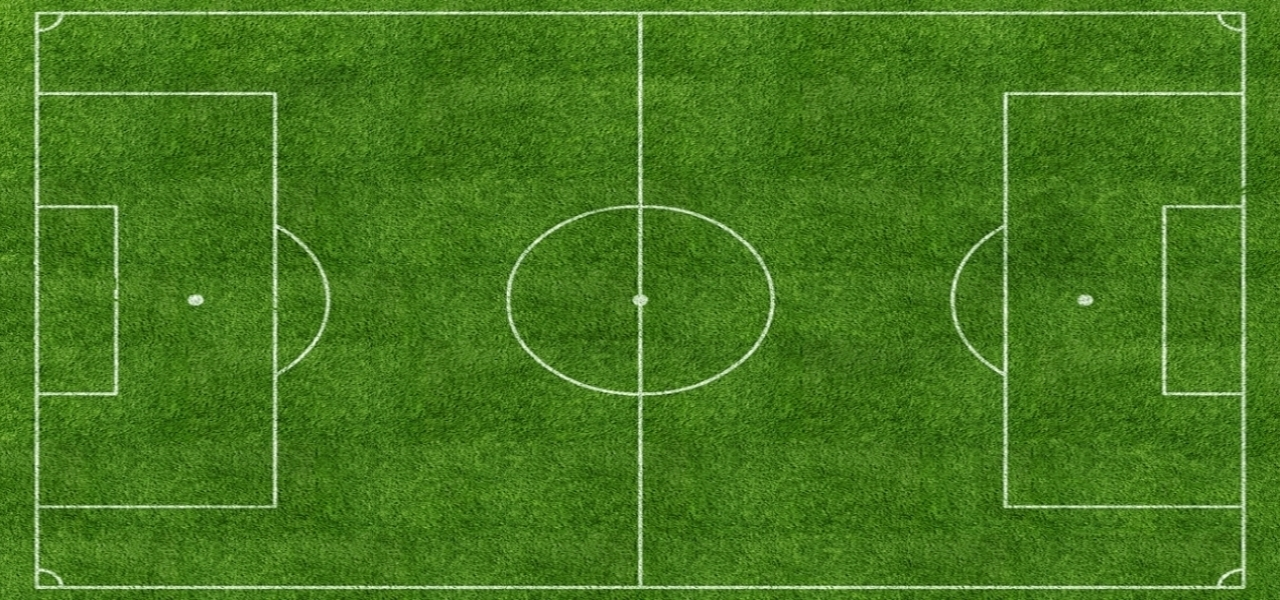
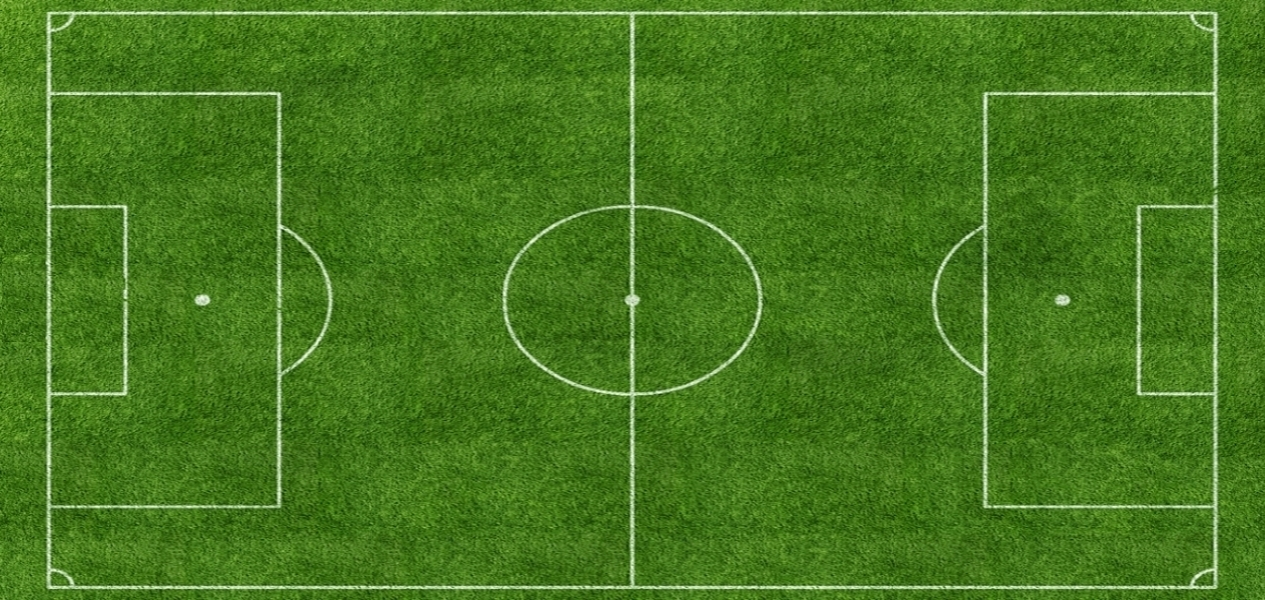
instructions state

Changed region(s): [[0.5241, 0.0, 1.0, 1.0], [0.0, 0.0, 0.4625, 1.0]]

diff --git a/public/js/leaderboard.js b/public/js/leaderboard.js
@@ -12,14 +12,14 @@ var leaderState = {
 
 	create: function() {
 
-		game.add.sprite(0, 0, 'futebol');
+		game.add.sprite(0, 0, 'futebol-clean');
 
 		//Leaderboard Page headers
-		var winLabel = game.add.text(380, 25, 'TOP 8 LEADERBOARD', {font: '44px Arial', fill: '#ffffff', fontWeight: 'bold'});
+		var winLabel = game.add.text(400, 25, 'TOP 8 LEADERBOARD', {font: '44px Arial', fill: '#ffffff', fontWeight: 'bold'});
 
-		game.add.text(460, 100, 'Player', {font: '36px Arial', fill: '#ffffff', fontWeight: 'bold'});
-		game.add.text(680, 100, 'Goals', {font: '36px Arial', fill: '#ffffff', fontWeight: 'bold'});
-		game.add.text(350, 120, '___________________________________', {fill: '#ffffff'});
+		game.add.text(490, 100, 'Player', {font: '36px Arial', fill: '#ffffff', fontWeight: 'bold'});
+		game.add.text(710, 100, 'Goals', {font: '36px Arial', fill: '#ffffff', fontWeight: 'bold'});
+		game.add.text(380, 120, '___________________________________', {fill: '#ffffff'});
 
 		// Call to get data from Database
 		$.get('/leaderboard', function(data) { 
@@ -33,47 +33,47 @@ var leaderState = {
 			
 		}
 		//======================RANKINGS - 1st PLACE=====================//
-		game.add.text(440, 160, '1 - ' + data[0].name, {font: '30px Arial', fill: '#ffffff', fontWeight: 'bold'});
-		game.add.text(420, 170, '_______________________', {fill: '#a1aab7'});
-		game.add.text(720, 160, data[0].score, {font: '30px Arial', fill: '#ffffff', fontWeight: 'bold'});
+		game.add.text(470, 160, '1 - ' + data[0].name, {font: '30px Arial', fill: '#ffffff', fontWeight: 'bold'});
+		game.add.text(450, 170, '_______________________', {fill: '#a1aab7'});
+		game.add.text(750, 160, data[0].score, {font: '30px Arial', fill: '#ffffff', fontWeight: 'bold'});
 
 		//======================2nd PLACE=====================//
-		game.add.text(440, 210, '2 - ' + data[1].name, {font: '30px Arial', fill: '#ffffff', fontWeight: 'bold'});
-		game.add.text(420, 220, '_______________________', {fill: '#a1aab7'});
-		game.add.text(720, 210, data[1].score, {font: '30px Arial', fill: '#ffffff', fontWeight: 'bold'});
+		game.add.text(470, 210, '2 - ' + data[1].name, {font: '30px Arial', fill: '#ffffff', fontWeight: 'bold'});
+		game.add.text(450, 220, '_______________________', {fill: '#a1aab7'});
+		game.add.text(750, 210, data[1].score, {font: '30px Arial', fill: '#ffffff', fontWeight: 'bold'});
 
 		//======================3rd PLACE=====================//
-		game.add.text(440, 260, '3 - ' + data[2].name, {font: '30px Arial', fill: '#ffffff', fontWeight: 'bold'});
-		game.add.text(420, 270, '_______________________', {fill: '#a1aab7'});
-		game.add.text(720, 260, data[2].score, {font: '30px Arial', fill: '#ffffff', fontWeight: 'bold'});
+		game.add.text(470, 260, '3 - ' + data[2].name, {font: '30px Arial', fill: '#ffffff', fontWeight: 'bold'});
+		game.add.text(450, 270, '_______________________', {fill: '#a1aab7'});
+		game.add.text(750, 260, data[2].score, {font: '30px Arial', fill: '#ffffff', fontWeight: 'bold'});
 
 		//======================4th PLACE=====================//
-		game.add.text(440, 310, '4 - ' + data[3].name, {font: '30px Arial', fill: '#ffffff', fontWeight: 'bold'});
-		game.add.text(420, 320, '_______________________', {fill: '#a1aab7'});
-		game.add.text(720, 310, data[3].score, {font: '30px Arial', fill: '#ffffff', fontWeight: 'bold'});
+		game.add.text(470, 310, '4 - ' + data[3].name, {font: '30px Arial', fill: '#ffffff', fontWeight: 'bold'});
+		game.add.text(450, 320, '_______________________', {fill: '#a1aab7'});
+		game.add.text(750, 310, data[3].score, {font: '30px Arial', fill: '#ffffff', fontWeight: 'bold'});
 
 		//======================5th PLACE=====================//
-		game.add.text(440, 360, '5 - ' + data[4].name, {font: '30px Arial', fill: '#ffffff', fontWeight: 'bold'});
-		game.add.text(420, 370, '_______________________', {fill: '#a1aab7'});
-		game.add.text(720, 360, data[4].score, {font: '30px Arial', fill: '#ffffff', fontWeight: 'bold'});
+		game.add.text(470, 360, '5 - ' + data[4].name, {font: '30px Arial', fill: '#ffffff', fontWeight: 'bold'});
+		game.add.text(450, 370, '_______________________', {fill: '#a1aab7'});
+		game.add.text(750, 360, data[4].score, {font: '30px Arial', fill: '#ffffff', fontWeight: 'bold'});
 		//======================6th PLACE=====================//
-		game.add.text(440, 410, '6 - ' + data[5].name, {font: '30px Arial', fill: '#ffffff', fontWeight: 'bold'});
-		game.add.text(420, 420, '_______________________', {fill: '#a1aab7'});
-		game.add.text(720, 410, data[5].score, {font: '30px Arial', fill: '#ffffff', fontWeight: 'bold'});
+		game.add.text(470, 410, '6 - ' + data[5].name, {font: '30px Arial', fill: '#ffffff', fontWeight: 'bold'});
+		game.add.text(450, 420, '_______________________', {fill: '#a1aab7'});
+		game.add.text(750, 410, data[5].score, {font: '30px Arial', fill: '#ffffff', fontWeight: 'bold'});
 		//======================7th PLACE=====================//
-		game.add.text(440, 460, '7 - ' + data[6].name, {font: '30px Arial', fill: '#ffffff', fontWeight: 'bold'});
-		game.add.text(420, 470, '_______________________', {fill: '#a1aab7'});
-		game.add.text(720, 460, data[6].score, {font: '30px Arial', fill: '#ffffff', fontWeight: 'bold'});
+		game.add.text(470, 460, '7 - ' + data[6].name, {font: '30px Arial', fill: '#ffffff', fontWeight: 'bold'});
+		game.add.text(450, 470, '_______________________', {fill: '#a1aab7'});
+		game.add.text(750, 460, data[6].score, {font: '30px Arial', fill: '#ffffff', fontWeight: 'bold'});
 		//======================8th PLACE=====================//
-		game.add.text(440, 510, '8 - ' + data[7].name, {font: '30px Arial', fill: '#ffffff', fontWeight: 'bold'});
-		game.add.text(720, 510, data[7].score, {font: '30px Arial', fill: '#ffffff', fontWeight: 'bold'});
-		game.add.text(350, 520, '___________________________________', {fill: '#ffffff'});
+		game.add.text(470, 510, '8 - ' + data[7].name, {font: '30px Arial', fill: '#ffffff', fontWeight: 'bold'});
+		game.add.text(750, 510, data[7].score, {font: '30px Arial', fill: '#ffffff', fontWeight: 'bold'});
+		game.add.text(380, 520, '___________________________________', {fill: '#ffffff'});
 
 		});
 
 		// Play Again buttons
 		game.add.button(game.world.centerX - 500, 230, 'play-again', restart, this, 2, 1, 0);
-		game.add.button(game.world.centerX + 380, 230, 'play-again', restart, this, 2, 1, 0);
+		game.add.button(game.world.centerX + 370, 230, 'play-again', restart, this, 2, 1, 0);
 
 	},
 

diff --git a/public/js/play.js b/public/js/play.js
@@ -80,7 +80,7 @@ function ownGoal(player, goal) {
 function restartBall() {
 
         // Puts the ball back in the middle mark to restart the game
-        player = game.add.sprite(640, 300, 'player');
+        player = game.add.sprite(633, 300, 'player');
 
         game.physics.enable([player], Phaser.Physics.ARCADE);
 
@@ -245,16 +245,16 @@ create: function() {
     game.add.tween(enemy19).to({ y: 230 }, 3250, Phaser.Easing.Quadratic.InOut, true, 0, 1000, true);
 
     //  GAME SCORE
-    scoreText = game.add.text(597, 25, 'Goals: 0', { fontSize: '24px', fill: '#FFF' });
+    scoreText = game.add.text(580, 25, 'Goals: 0', { fontSize: '28px', fill: '#FFF' });
 
     // TIMER
     game.time.events.loop(Phaser.Timer.SECOND, updateCounter, this);
 
-    text = game.add.text(game.world.centerX, game.world.centerY, 'Time Left: 60', { font: "22px Arial", fill: "#ffffff", align: "center" });
-    text.anchor.setTo(0.5, -8.5);
+    text = game.add.text(game.world.centerX, game.world.centerY, 'Time Left: 60', { font: "26px Arial", fill: "#ffffff", align: "center" });
+    text.anchor.setTo(0.5, -7.0);
 
     // GOALS
-    goal = game.add.sprite(0, 252, 'goal');
+    goal = game.add.sprite(12, 252, 'goal');
 
     game.physics.enable([goal], Phaser.Physics.ARCADE);
 
@@ -262,7 +262,7 @@ create: function() {
 
     goal.body.immovable = true;
     //------------------------------------------------//
-    goal2 = game.add.sprite(1255, 252, 'goal-two');
+    goal2 = game.add.sprite(1215, 252, 'goal-two');
 
     game.physics.enable([goal2], Phaser.Physics.ARCADE);
 
@@ -282,7 +282,7 @@ create: function() {
     arrow.anchor.setTo(0.1, 0.5);
     arrow.alpha = 0;
 
-    player = game.add.sprite(640, 300, 'player');
+    player = game.add.sprite(633, 300, 'player');
 
     game.physics.enable([player], Phaser.Physics.ARCADE);
 

diff --git a/public/js/instructions.js b/public/js/instructions.js
@@ -1,0 +1,40 @@
+function begin() {
+
+		game.state.start('play');		
+}
+
+var instructionsState = {
+
+	create: function() {
+
+		game.add.sprite(0, 0, 'futebol-clean');
+
+		//Leaderboard Page headers
+		var winLabel = game.add.text(400, 25, 'GAME INSTRUCTIONS', {font: '44px Arial', fill: '#ffffff', fontWeight: 'bold'});
+
+		//Instruction 1
+		game.add.text(300, 100, 'You will represent the red team, attacking to your', {font: '28px Arial', fill: '#ffffff', fontWeight: 'bold'});
+		game.add.text(440, 130, 'right against the yellow team.', {font: '28px Arial', fill: '#ffffff', fontWeight: 'bold'});
+		//game.add.text(350, 120, '___________________________________', {fill: '#ffffff'});
+
+		//Instruction 2
+		game.add.text(300, 190, 'To move the ball, simply drag it and release it onto', {font: '28px Arial', fill: '#ffffff', fontWeight: 'bold'});
+		game.add.text(320, 220, 'the field in the desired direction. The further you', {font: '28px Arial', fill: '#ffffff', fontWeight: 'bold'});
+		game.add.text(350, 250, 'drag the ball, the stronger your kick will be.', {font: '28px Arial', fill: '#ffffff', fontWeight: 'bold'});
+
+		//Instruction 3
+		game.add.text(285, 310, 'You have 60 seconds to score as many goals as you', {font: '28px Arial', fill: '#ffffff', fontWeight: 'bold'});
+		game.add.text(310, 340, 'can. However, if you concede any goals, you will', {font: '28px Arial', fill: '#ffffff', fontWeight: 'bold'});
+		game.add.text(420, 370, 'lose precious points. Good luck!', {font: '28px Arial', fill: '#ffffff', fontWeight: 'bold'});
+
+		// Play Again buttons
+		var button = game.add.button(game.world.centerX - 70, 420, 'button', begin, this, 2, 1, 0);
+
+	},
+
+	begin: function() {
+
+		game.state.start('play');
+		
+	}
+};

diff --git a/public/js/load.js b/public/js/load.js
@@ -5,6 +5,7 @@ var loadState = {
 		var loadingLabel = game.add.text(80, 150, 'LOADING...', {font: '30px Arial', fill: '#ffffff'});
 		//Load GameImages
     	game.load.image('futebol', '../images/football-field.jpg');
+        game.load.image('futebol-clean', '../images/football-field-clean.jpg');
         game.load.image('stadium', '../images/stadium.jpg');
     	game.load.image('enemy', '../images/footballer-yellow.png');
     	game.load.image('enemy-white', '../images/footballer-white.png');

diff --git a/public/js/game.js b/public/js/game.js
@@ -1,4 +1,4 @@
-var game = new Phaser.Game(1268, 599, Phaser.AUTO, 'gameDiv');
+var game = new Phaser.Game(1265, 599, Phaser.AUTO, 'gameDiv');
 
 // Game States
 game.state.add('boot', bootState);
@@ -6,6 +6,7 @@ game.state.add('load', loadState);
 game.state.add('menu', menuState);
 game.state.add('play', playState);
 game.state.add('win', winState);
+game.state.add('instructions', instructionsState);
 game.state.add('leaderboard', leaderState);
 
 //Call boot function to start the game

diff --git a/public/js/menu.js b/public/js/menu.js
@@ -1,6 +1,6 @@
 function start() {
 
-		game.state.start('play');		
+		game.state.start('instructions');		
 }
 
 var menuState = {
@@ -15,7 +15,7 @@ var menuState = {
 
 	start: function() {
 
-		game.state.start('play');
+		game.state.start('instructions');
 		
 	}
 };
